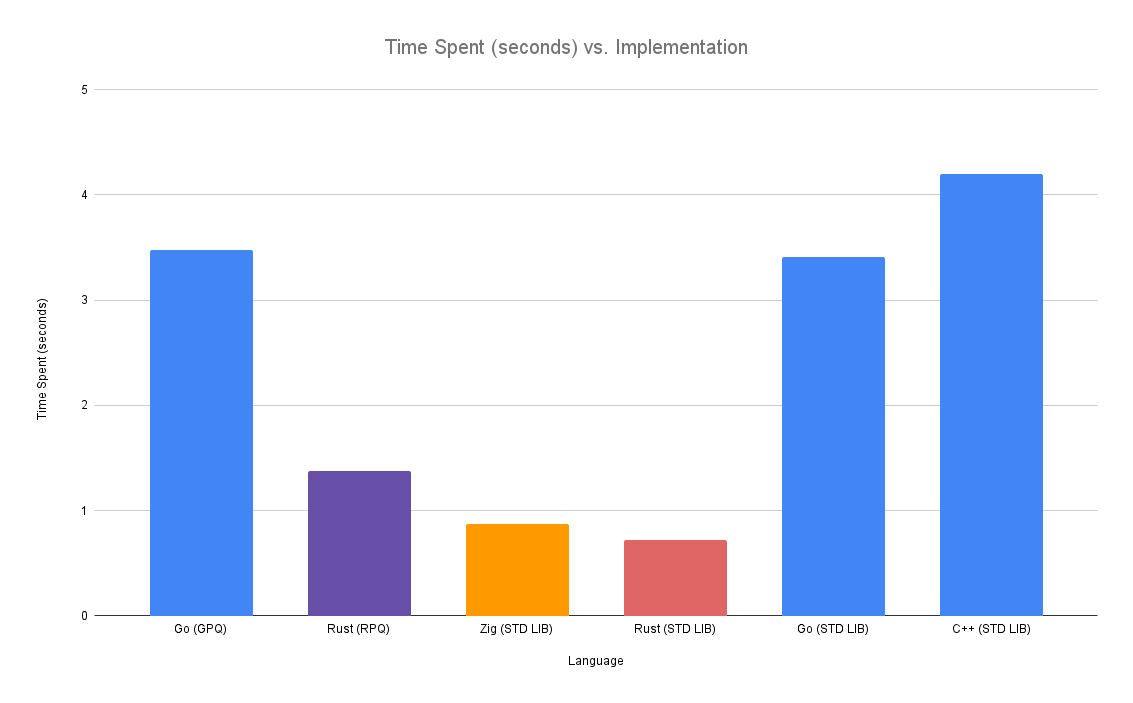
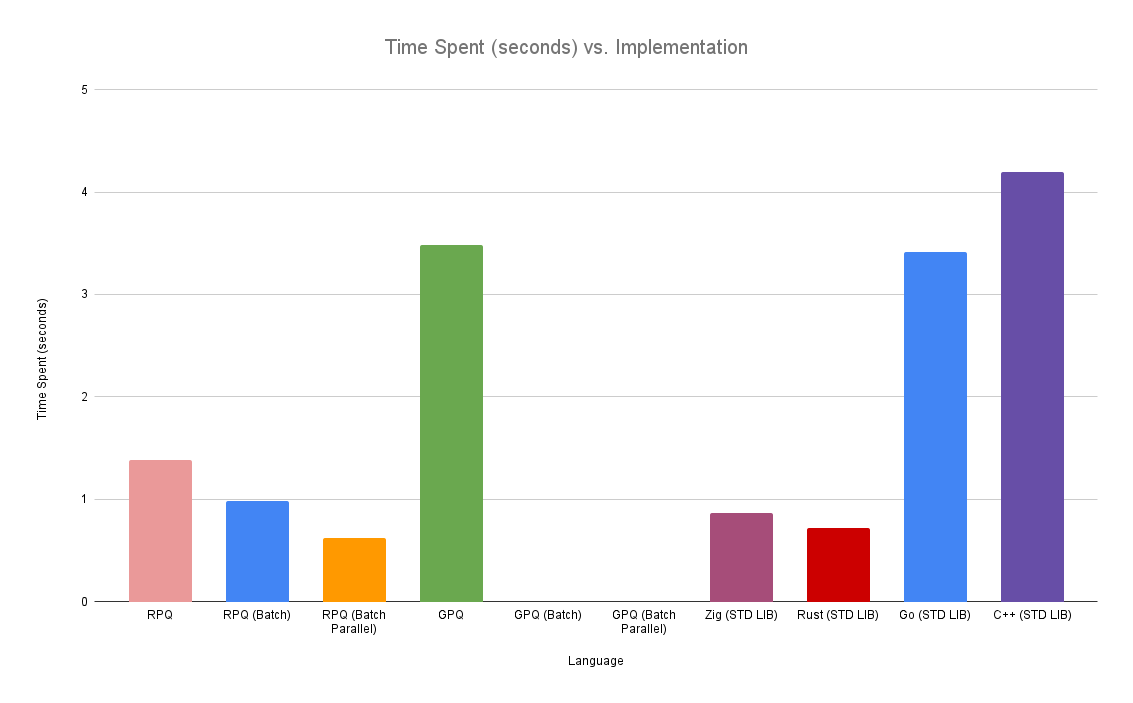
Update benches

Changed region(s): [[0.0927, 0.239, 0.9576, 0.8962]]

diff --git a/rpq-batch-parallel/src/main.rs b/rpq-batch-parallel/src/main.rs
@@ -1,0 +1,111 @@
+use std::fs::File;
+use std::io::Write;
+use std::sync::Arc;
+
+use pprof::protos::Message;
+use rpq::pq::Item;
+use rpq::{RPQOptions, RPQ};
+
+#[tokio::main(flavor = "multi_thread")]
+async fn main() {
+    let guard = pprof::ProfilerGuard::new(100).unwrap();
+
+    let message_count = 10_000_000;
+    let batch_size = 10_000;
+    let senders = 4;
+    let receivers = 4;
+
+    let options = RPQOptions {
+        max_priority: 10,
+        disk_cache_enabled: false,
+        database_path: "/tmp/rpq-bench.redb".to_string(),
+        lazy_disk_cache: true,
+        lazy_disk_write_delay: std::time::Duration::from_secs(5),
+        lazy_disk_cache_batch_size: 10000,
+    };
+
+    let r = RPQ::new(options).await;
+    match r {
+        Ok(_) => {}
+        Err(e) => {
+            println!("Error Creating RPQ: {}", e);
+            return;
+        }
+    }
+
+    let rpq = Arc::clone(&r.unwrap().0);
+    let timer = std::time::Instant::now();
+
+    let mut handles = Vec::new();
+
+    for _ in 0..senders {
+        let rpq_clone = Arc::clone(&rpq);
+        handles.push(tokio::spawn(async move {
+            for i in 0..(message_count / senders) / batch_size {
+                let mut items = Vec::new();
+                for _ in 0..batch_size {
+                    let item = Item::new(
+                        i % 10,
+                        i,
+                        false,
+                        None,
+                        false,
+                        Some(std::time::Duration::from_secs(5)),
+                    );
+                    items.push(item);
+                }
+                let result = rpq_clone.enqueue_batch(items).await;
+                if result.is_err() {
+                    println!("Error Enqueuing: {}", result.err().unwrap());
+                    return;
+                }
+            }
+        }));
+    }
+
+    let recived_counter = Arc::new(std::sync::atomic::AtomicUsize::new(0));
+    for _ in 0..receivers {
+        let rpq_clone = Arc::clone(&rpq);
+        let recived_counter = Arc::clone(&recived_counter);
+        handles.push(tokio::spawn(async move {
+            loop {
+                if recived_counter.load(std::sync::atomic::Ordering::SeqCst) >= message_count {
+                    break;
+                }
+
+                let result = rpq_clone.dequeue_batch(batch_size).await;
+                if result.is_err() {
+                    println!("Error Dequeuing: {}", result.err().unwrap());
+                    return;
+                }
+                let result = result.unwrap();
+                if !result.is_none() {
+                    recived_counter
+                        .fetch_add(result.unwrap().len(), std::sync::atomic::Ordering::SeqCst);
+                }
+            }
+        }));
+    }
+
+    for handle in handles {
+        handle.await.unwrap();
+    }
+
+    println!(
+        "Received: {}",
+        recived_counter.load(std::sync::atomic::Ordering::SeqCst)
+    );
+    println!("Total Time: {}s", timer.elapsed().as_secs_f64());
+
+    match guard.report().build() {
+        Ok(report) => {
+            let mut file = File::create("profile.pb").unwrap();
+            let profile = report.pprof().unwrap();
+
+            let mut content = Vec::new();
+            profile.write_to_vec(&mut content).unwrap();
+            file.write_all(&content).unwrap();
+        }
+        Err(_) => {}
+    };
+}

diff --git a/rpq-batch/src/main.rs b/rpq-batch/src/main.rs
@@ -11,6 +11,7 @@ async fn main() {
     let guard = pprof::ProfilerGuard::new(100).unwrap();
 
     let message_count = 10_000_000;
+    let batch_size = 10_000;
 
     let options = RPQOptions {
         max_priority: 10,
@@ -34,26 +35,31 @@ async fn main() {
 
     let timer = std::time::Instant::now();
     let send_timer = std::time::Instant::now();
-    for i in 0..message_count {
-        let item = Item::new(
-            i % 10,
-            i,
-            false,
-            None,
-            false,
-            Some(std::time::Duration::from_secs(5)),
-        );
-        let result = rpq.enqueue(item).await;
+    for i in 0..message_count / batch_size {
+        let mut items = Vec::new();
+        for j in 0..batch_size {
+            let item = Item::new(
+                i % 10,
+                i,
+                false,
+                None,
+                false,
+                Some(std::time::Duration::from_secs(5)),
+            );
+            items.push(item);
+        }
+        let result = rpq.enqueue_batch(items).await;
         if result.is_err() {
             println!("Error Enqueuing: {}", result.err().unwrap());
             return;
         }
     }
+
     let send_elapsed = send_timer.elapsed().as_secs_f64();
 
     let receive_timer = std::time::Instant::now();
-    for _i in 0..message_count {
-        let result = rpq.dequeue().await;
+    for _i in 0..message_count / batch_size {
+        let result = rpq.dequeue_batch(batch_size).await;
         if result.is_err() {
             println!("Error Dequeuing: {}", result.err().unwrap());
             return;

diff --git a/README.md b/README.md
@@ -12,14 +12,18 @@ This repository contains benchmarks for various priority queue implementations i
 ## Benchmarks
 ![Benchmark](./docs/Time-Spent-vs-Implementation.png)
 
-Language       | Time Spent (seconds)
----------------|---------------------
-Go (GPQ)       | 3.48
-Rust (RPQ)     | 1.82
-Zig (STD LIB)  | 0.87
-Rust (STD LIB) | 0.72
-Go (STD LIB)   | 3.41
-C++ (STD LIB)  | 4.24
+Language             | Time Spent (seconds)
+---------------------|---------------------
+RPQ                  | 1.38
+RPQ (Batch)          | 0.98
+RPQ (Batch Parallel) | 0.62
+GPQ                  | 3.48
+GPQ (Batch)          | TODO
+GPQ (Batch Parallel) | TODO
+Zig (STD LIB)        | 0.87
+Rust (STD LIB)       | 0.72
+Go (STD LIB)         | 3.41
+C++ (STD LIB)        | 4.24
 
 ## Features
 | Feature          | GPQ | RPQ | Go Heap | Zig Priority Queue | C++ Queue | Rust Binary Heap |
